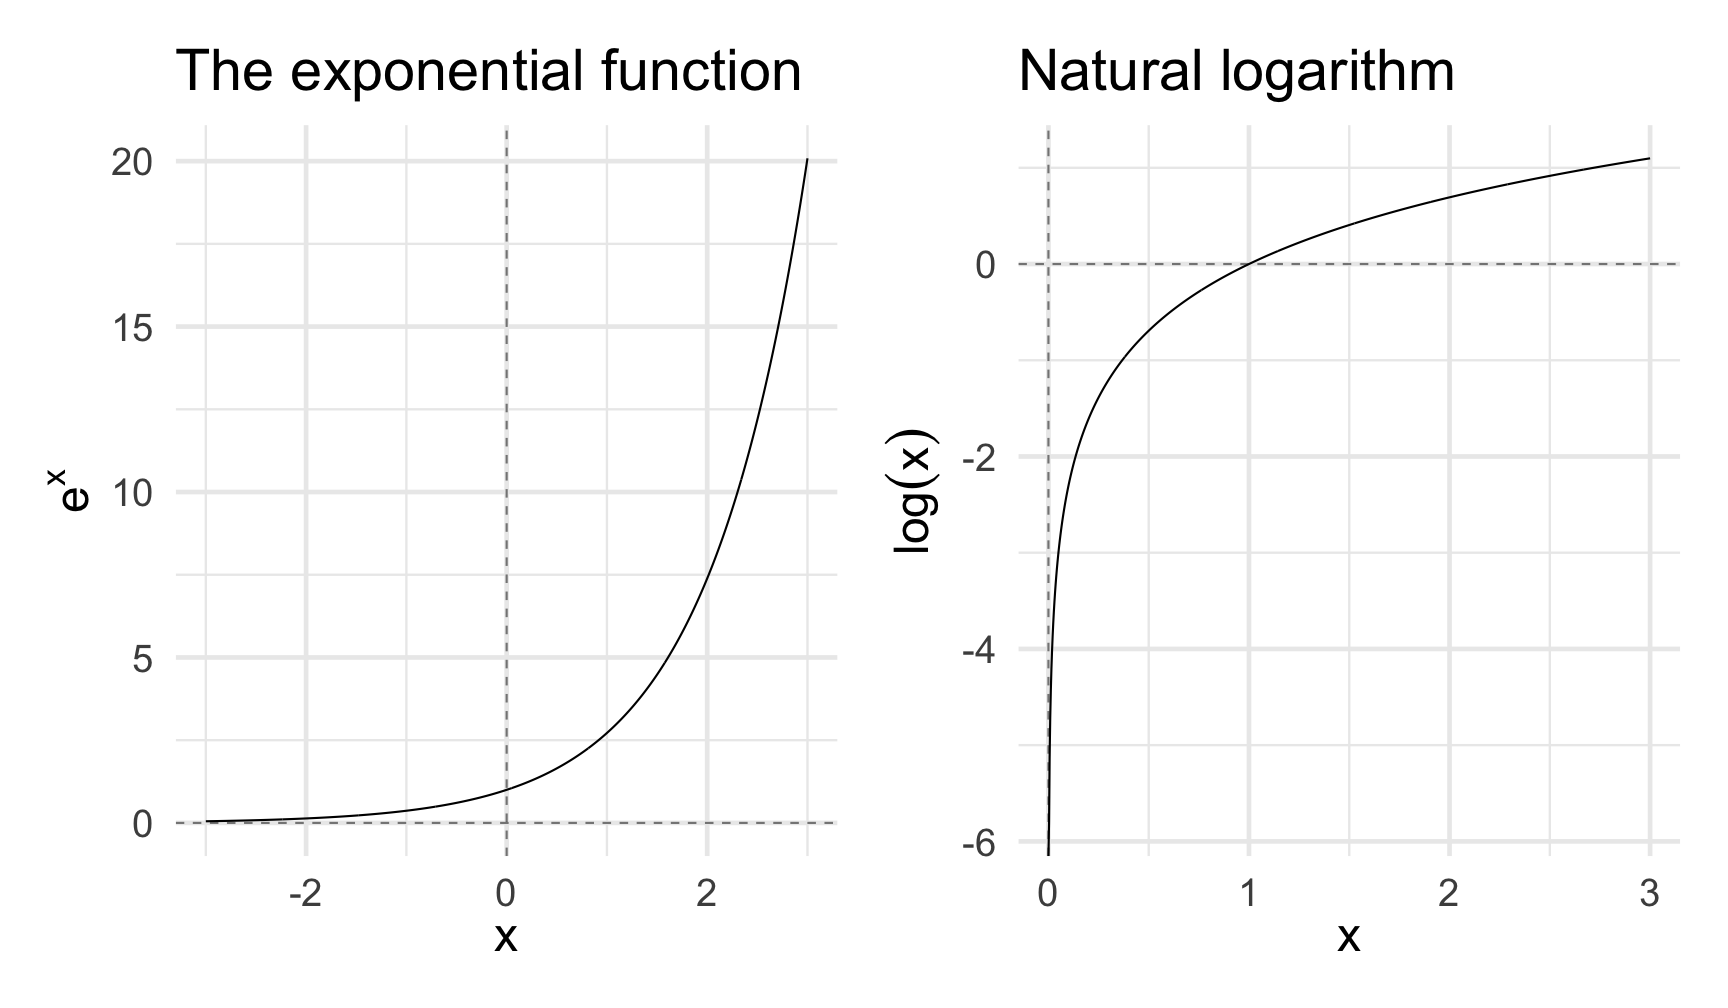
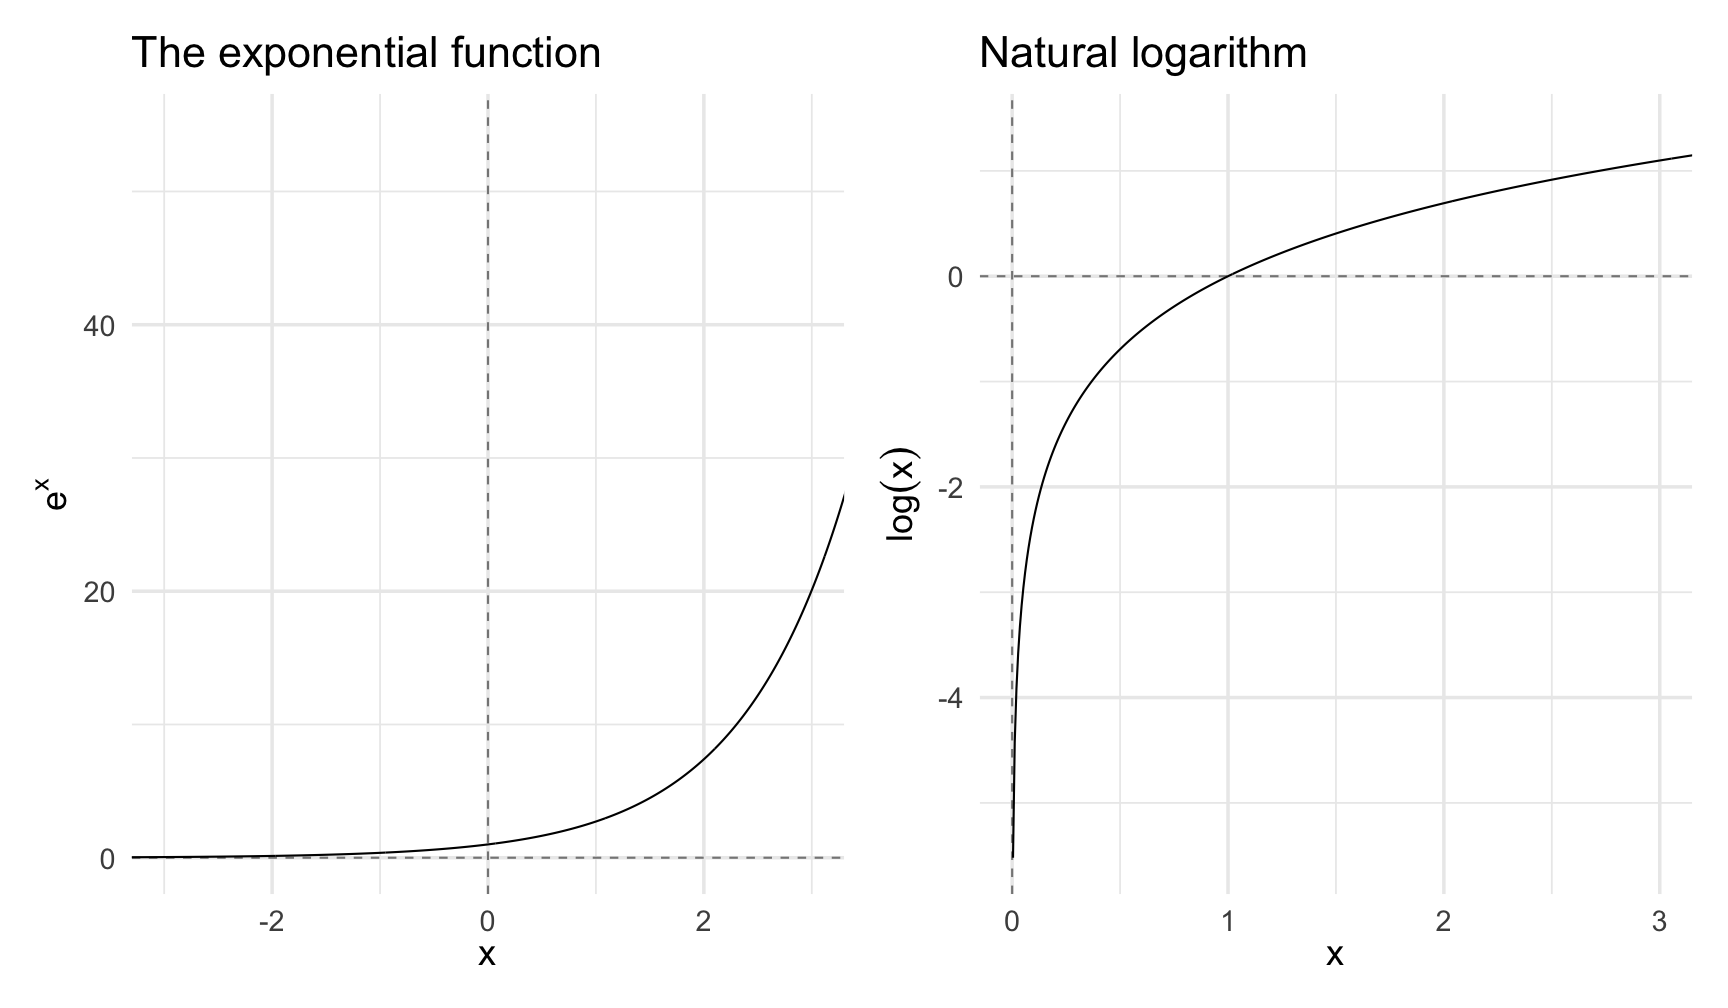
update through day 3

diff --git a/docs/03-differentiation.html b/docs/03-differentiation.html
@@ -5,8 +5,8 @@
     <meta charset="utf-8" />
     <meta name="author" content="MACS 33000   University of Chicago" />
     <script src="03-differentiation_files/header-attrs/header-attrs.js"></script>
-    <link href="03-differentiation_files/remark-css/default.css" rel="stylesheet" />
-    <link href="03-differentiation_files/remark-css/default-fonts.css" rel="stylesheet" />
+    <link rel="stylesheet" href="xaringan-themer.css" type="text/css" />
+    <link rel="stylesheet" href="slides-menu.css" type="text/css" />
   </head>
   <body>
     <textarea id="source">
@@ -68,7 +68,7 @@ class: center, middle, inverse, title-slide
 
 # The tangent as a limit
 
-&lt;img src="03-differentiation_files/figure-html/tan-lines-1.gif" style="display: block; margin: auto;" /&gt;
+&lt;img src="03-differentiation_files/figure-html/tan-lines-1.gif" width="85%" style="display: block; margin: auto;" /&gt;
 
 ---
 
@@ -76,7 +76,7 @@ class: center, middle, inverse, title-slide
 
 .pull-left[
 
-&lt;img src="03-differentiation_files/figure-html/tan-lines-slim-1.gif" style="display: block; margin: auto;" /&gt;
+&lt;img src="03-differentiation_files/figure-html/tan-lines-slim-1.gif" width="85%" style="display: block; margin: auto;" /&gt;
 
 ]
 
@@ -96,13 +96,6 @@ $$
 
 # The tangent as a limit
 
-.pull-left[
-
-&lt;img src="03-differentiation_files/figure-html/tan-lines-slim2-1.gif" style="display: block; margin: auto;" /&gt;
-
-]
-
-.pull-right[
 
 $$
 `\begin{aligned}
@@ -111,6 +104,8 @@ Q &amp;= (x_1, y_1) \\
 \text{slope of } L &amp;= \frac{y_1 - y_0}{x_1 - x_0}
 \end{aligned}`
 $$
+
+--
 
 ### Substitute values
 
@@ -124,7 +119,7 @@ y_1 &amp;= f(x_0 + h) \\
 \end{aligned}`
 $$
 
-]
+
 
 ---
 
@@ -169,7 +164,7 @@ Suppose `\(f:\Re \rightarrow \Re\)`. Measure rate of change at a point `\(x_{0}\
 # Example derivatives
 
 &lt;div class="figure" style="text-align: center"&gt;
-&lt;img src="03-differentiation_files/figure-html/derivsimple-1.png" alt="The Derivative as a Slope" width="864" /&gt;
+&lt;img src="03-differentiation_files/figure-html/derivsimple-1.png" alt="The Derivative as a Slope" width="85%" /&gt;
 &lt;p class="caption"&gt;The Derivative as a Slope&lt;/p&gt;
 &lt;/div&gt;
 
@@ -196,7 +191,7 @@ Suppose `\(f:\Re \rightarrow \Re\)`. Measure rate of change at a point `\(x_{0}\
 
 # Rates of change in a function
 
-&lt;img src="03-differentiation_files/figure-html/vote-spending-1.png" width="864" style="display: block; margin: auto;" /&gt;
+&lt;img src="03-differentiation_files/figure-html/vote-spending-1.png" width="85%" style="display: block; margin: auto;" /&gt;
 
 --
 
@@ -414,7 +409,7 @@ $$
 
 # Exponential function
 
-&lt;img src="03-differentiation_files/figure-html/exp-func-1.png" width="864" style="display: block; margin: auto;" /&gt;
+&lt;img src="03-differentiation_files/figure-html/exp-func-1.png" width="85%" style="display: block; margin: auto;" /&gt;
 
 
 ---
@@ -441,7 +436,7 @@ $$
 
 # Derivative of exponential function
 
-&lt;img src="03-differentiation_files/figure-html/exp-limit-1.png" width="864" style="display: block; margin: auto;" /&gt;
+&lt;img src="03-differentiation_files/figure-html/exp-limit-1.png" width="85%" style="display: block; margin: auto;" /&gt;
 
 ---
 
@@ -464,7 +459,7 @@ $$
 # Derivative of exponential function
 
 &lt;div class="figure" style="text-align: center"&gt;
-&lt;img src="03-differentiation_files/figure-html/fig-derivexponent-1.png" alt="Derivative of the Exponential Function" width="864" /&gt;
+&lt;img src="03-differentiation_files/figure-html/fig-derivexponent-1.png" alt="Derivative of the Exponential Function" width="85%" /&gt;
 &lt;p class="caption"&gt;Derivative of the Exponential Function&lt;/p&gt;
 &lt;/div&gt;
 
@@ -485,7 +480,7 @@ $$
 # Exponential function and natural logarithm
 
 &lt;div class="figure" style="text-align: center"&gt;
-&lt;img src="03-differentiation_files/figure-html/exp-log-1.png" alt="Exponential function and natural logarithm" width="864" /&gt;
+&lt;img src="03-differentiation_files/figure-html/exp-log-1.png" alt="Exponential function and natural logarithm" width="85%" /&gt;
 &lt;p class="caption"&gt;Exponential function and natural logarithm&lt;/p&gt;
 &lt;/div&gt;
 
@@ -581,7 +576,7 @@ Therefore,
 
 # Mean value theorem
 
-&lt;img src="03-differentiation_files/figure-html/mean-value-theorem-1.png" width="864" style="display: block; margin: auto;" /&gt;
+&lt;img src="03-differentiation_files/figure-html/mean-value-theorem-1.png" width="85%" style="display: block; margin: auto;" /&gt;
 
 ---
 
@@ -606,7 +601,7 @@ Suppose that `\(f:[a,b] \rightarrow \Re\)` is continuous on `\([a,b]\)` and diff
 
 # If `\(f^{'}(x) \neq 0\)` for all `\(x \in (a,b)\)` then `\(f\)` is 1-1
 
-&lt;img src="03-differentiation_files/figure-html/one-to-one-1.png" width="864" style="display: block; margin: auto;" /&gt;
+&lt;img src="03-differentiation_files/figure-html/one-to-one-1.png" width="85%" style="display: block; margin: auto;" /&gt;
 
 ---
 
@@ -691,7 +686,7 @@ $$
 
 .pull-left[
 
-&lt;img src="03-differentiation_files/figure-html/lhopital-1-1.png" width="432" style="display: block; margin: auto;" /&gt;
+&lt;img src="03-differentiation_files/figure-html/lhopital-1-1.png" width="85%" style="display: block; margin: auto;" /&gt;
 
 ]
 
@@ -716,7 +711,7 @@ $$
 
 .pull-left[
 
-&lt;img src="03-differentiation_files/figure-html/lhopital-2-1.png" width="432" style="display: block; margin: auto;" /&gt;
+&lt;img src="03-differentiation_files/figure-html/lhopital-2-1.png" width="85%" style="display: block; margin: auto;" /&gt;
 
 ]
 
@@ -817,7 +812,11 @@ $$
     </textarea>
 <style data-target="print-only">@media screen {.remark-slide-container{display:block;}.remark-slide-scaler{box-shadow:none;}}</style>
 <script src="https://remarkjs.com/downloads/remark-latest.min.js"></script>
-<script>var slideshow = remark.create();
+<script>var slideshow = remark.create({
+  "highlightStyle": "github",
+  "highlightLines": true,
+  "countIncrementalSlides": false
+});
 if (window.HTMLWidgets) slideshow.on('afterShowSlide', function (slide) {
   window.dispatchEvent(new Event('resize'));
 });
@@ -895,7 +894,148 @@ if (window.HTMLWidgets) slideshow.on('afterShowSlide', function (slide) {
       links[i].target = '_blank';
     }
   }
-})();</script>
+})();
+// adds .remark-code-has-line-highlighted class to <pre> parent elements
+// of code chunks containing highlighted lines with class .remark-code-line-highlighted
+(function(d) {
+  const hlines = d.querySelectorAll('.remark-code-line-highlighted');
+  const preParents = [];
+  const findPreParent = function(line, p = 0) {
+    if (p > 1) return null; // traverse up no further than grandparent
+    const el = line.parentElement;
+    return el.tagName === "PRE" ? el : findPreParent(el, ++p);
+  };
+
+  for (let line of hlines) {
+    let pre = findPreParent(line);
+    if (pre && !preParents.includes(pre)) preParents.push(pre);
+  }
+  preParents.forEach(p => p.classList.add("remark-code-has-line-highlighted"));
+})(document);</script>
+<script>
+document.addEventListener("DOMContentLoaded", function () {
+  const slideshow = window.slideshow;
+  if (!slideshow) return;
+
+  // Create the toggle button
+  const toggleBtn = document.createElement("button");
+  toggleBtn.textContent = "☰ Menu";
+  Object.assign(toggleBtn.style, {
+    position: "fixed",
+    bottom: "20px",
+    left: "20px",
+    zIndex: 1000,
+    padding: "6px 10px",
+    background: "#0B6884",
+    color: "#fff",
+    border: "none",
+    borderRadius: "4px",
+    cursor: "pointer",
+    fontSize: "25px",
+    fontFamily: "'Josefin Sans', Georgia, serif",
+  });
+  document.body.appendChild(toggleBtn);
+
+  // Create the menu container
+  const menu = document.createElement("div");
+  Object.assign(menu.style, {
+    position: "fixed",
+    bottom: "60px",
+    left: "20px",
+    width: "260px",
+    maxHeight: "70vh",
+    overflowY: "auto",
+    background: "#f5f5f5",
+    border: "1px solid #ccc",
+    padding: "10px",
+    display: "none",
+    zIndex: 1000,
+    fontFamily: "sans-serif",
+    fontSize: "14px",
+    boxShadow: "0 2px 8px rgba(0,0,0,0.2)",
+    borderRadius: "4px"
+  });
+
+  // Export to PDF button inside the menu
+  const exportBtn = document.createElement("button");
+  exportBtn.textContent = "📄 Export to PDF";
+  Object.assign(exportBtn.style, {
+    width: "100%",
+    padding: "6px",
+    marginBottom: "8px",
+    border: "none",
+    background: "#0B6884",
+    color: "#fff",
+    borderRadius: "3px",
+    cursor: "pointer"
+  });
+  exportBtn.addEventListener("click", () => {
+    menu.style.display = "none";
+    window.print();
+  });
+  menu.appendChild(exportBtn);
+
+  // Get all slides
+  const allSlides = slideshow.getSlides();
+
+  // Build menu items (skip incremental slides)
+  let displayNumber = 1;
+  allSlides.forEach((slide, internalIndex) => {
+    if (slide.properties.continued === "true") {
+      return; // skip incremental steps
+    }
+
+    const slideElement = document.querySelector(
+      `.remark-slide-container:nth-of-type(${internalIndex + 1})`
+    );
+    const heading = slideElement?.querySelector("h1, h2, h3");
+    const title = heading
+      ? heading.textContent.trim()
+      : `Slide ${displayNumber}`;
+
+    const link = document.createElement("a");
+    link.textContent = `${displayNumber}. ${title}`;
+    Object.assign(link.style, {
+      display: "block",
+      color: "#0B6884",
+      textDecoration: "none",
+      marginBottom: "6px",
+      padding: "4px 6px",
+      borderRadius: "3px",
+      userSelect: "none"
+    });
+
+    link.addEventListener("mouseenter", () => {
+      link.style.background = "#ddd";
+    });
+    link.addEventListener("mouseleave", () => {
+      link.style.background = "transparent";
+    });
+
+    // Use the actual remark.js 1-based slide index
+    link.addEventListener("click", (e) => {
+      e.preventDefault();
+      menu.style.display = "none";
+      slideshow.gotoSlide(internalIndex + 1);
+    });
+
+    menu.appendChild(link);
+    displayNumber++;
+  });
+
+  document.body.appendChild(menu);
+
+  // Toggle menu
+  toggleBtn.addEventListener("click", () => {
+    menu.style.display = menu.style.display === "none" ? "block" : "none";
+  });
+
+  // Close on slide change
+  slideshow.on("afterShowSlide", () => {
+    menu.style.display = "none";
+  });
+});
+</script>
 
 <script>
 slideshow._releaseMath = function(el) {

diff --git a/docs/02-sequences-limits.html b/docs/02-sequences-limits.html
@@ -105,7 +105,7 @@ class: center, middle, inverse, title-slide
 &lt;img src="02-sequences-limits_files/figure-html/log-base-e-1.png" width="864" style="display: block; margin: auto;" /&gt;
 
 * Natural logarithms are incredibly useful in math
-* Often `\(\log()\)` is assumed to be a natural log
+* Often `\(\log()\)` is assumed to be a natural log (good to assume for homework, too!)
 * Also seen as `\(\ln()\)`
 
 ---
@@ -574,7 +574,6 @@ class: center, middle, inverse
 # NEXT UP!
 
 * DERIVATIVES!!!!!!!!
-* Thursday: Academic integrity
 * Check in with any questions! (clipperton@uchicago.edu)
 
 
